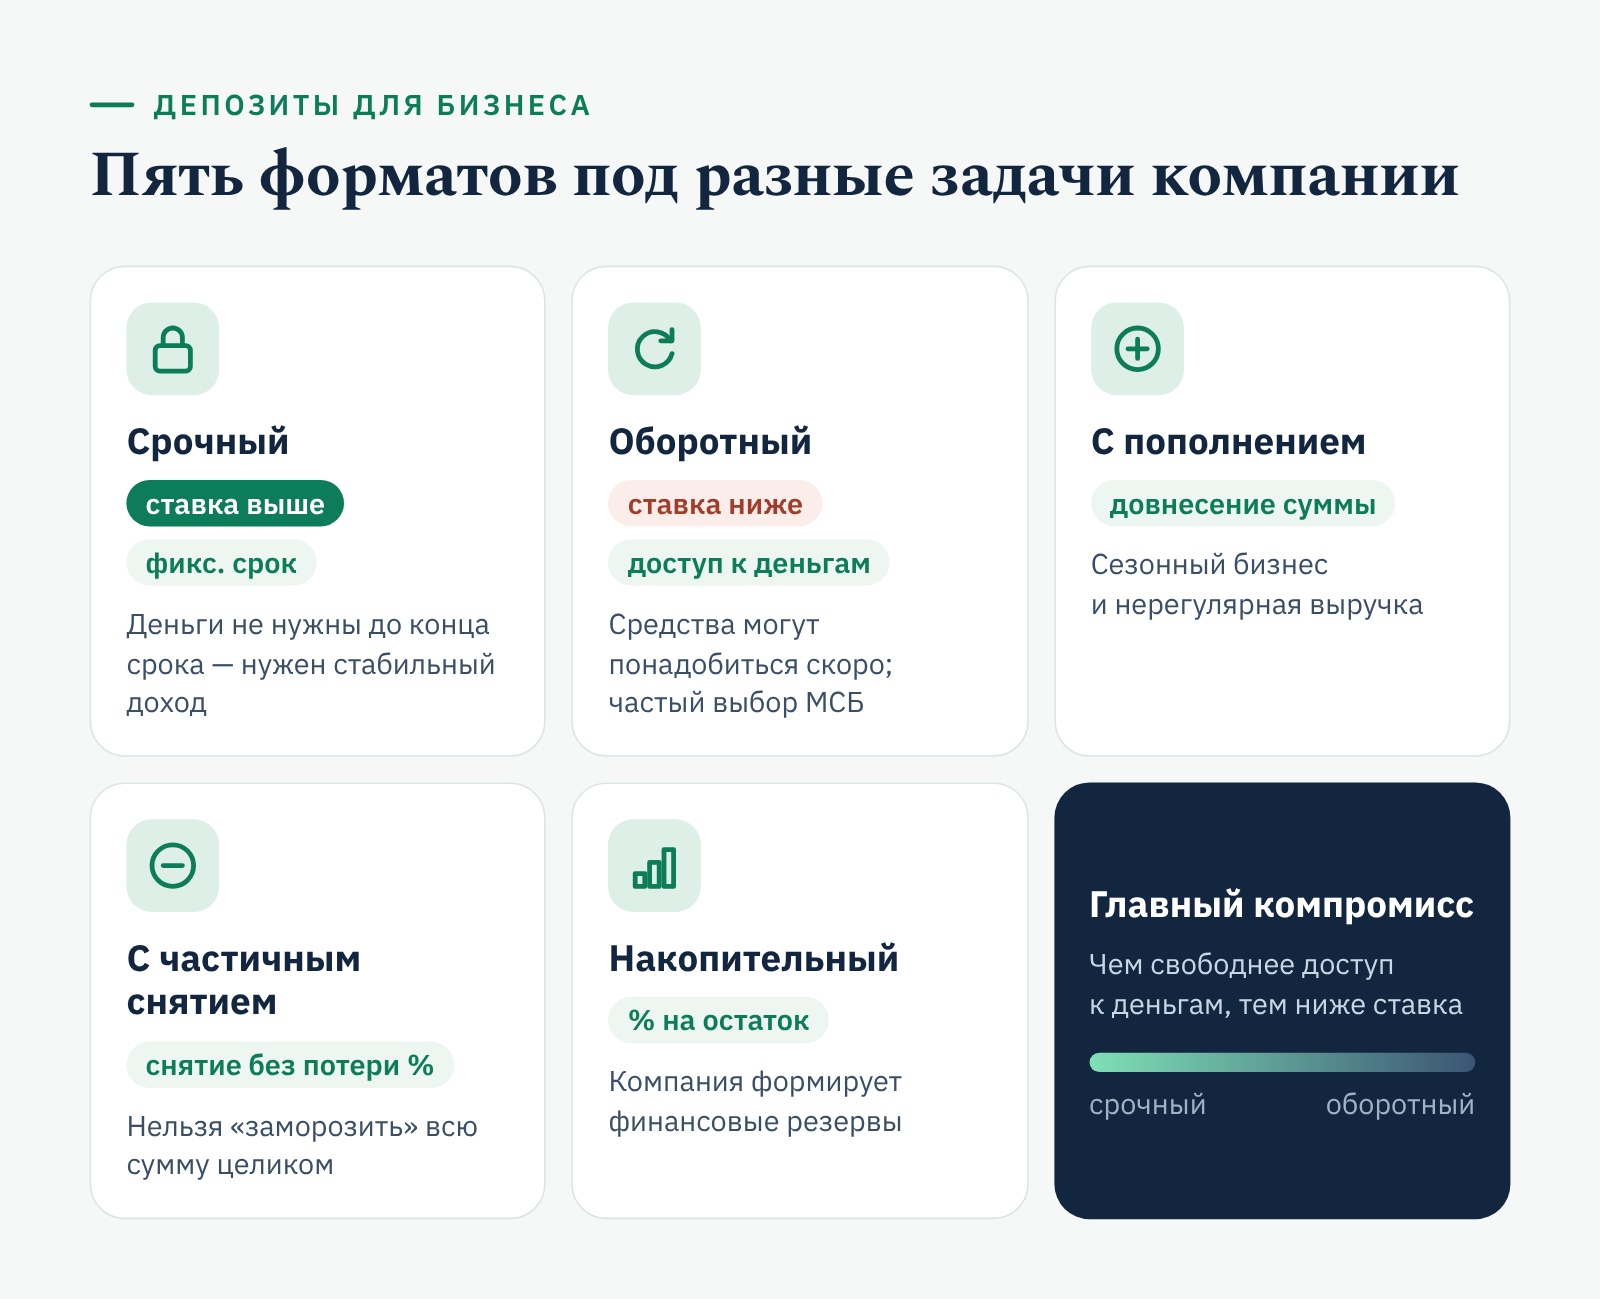
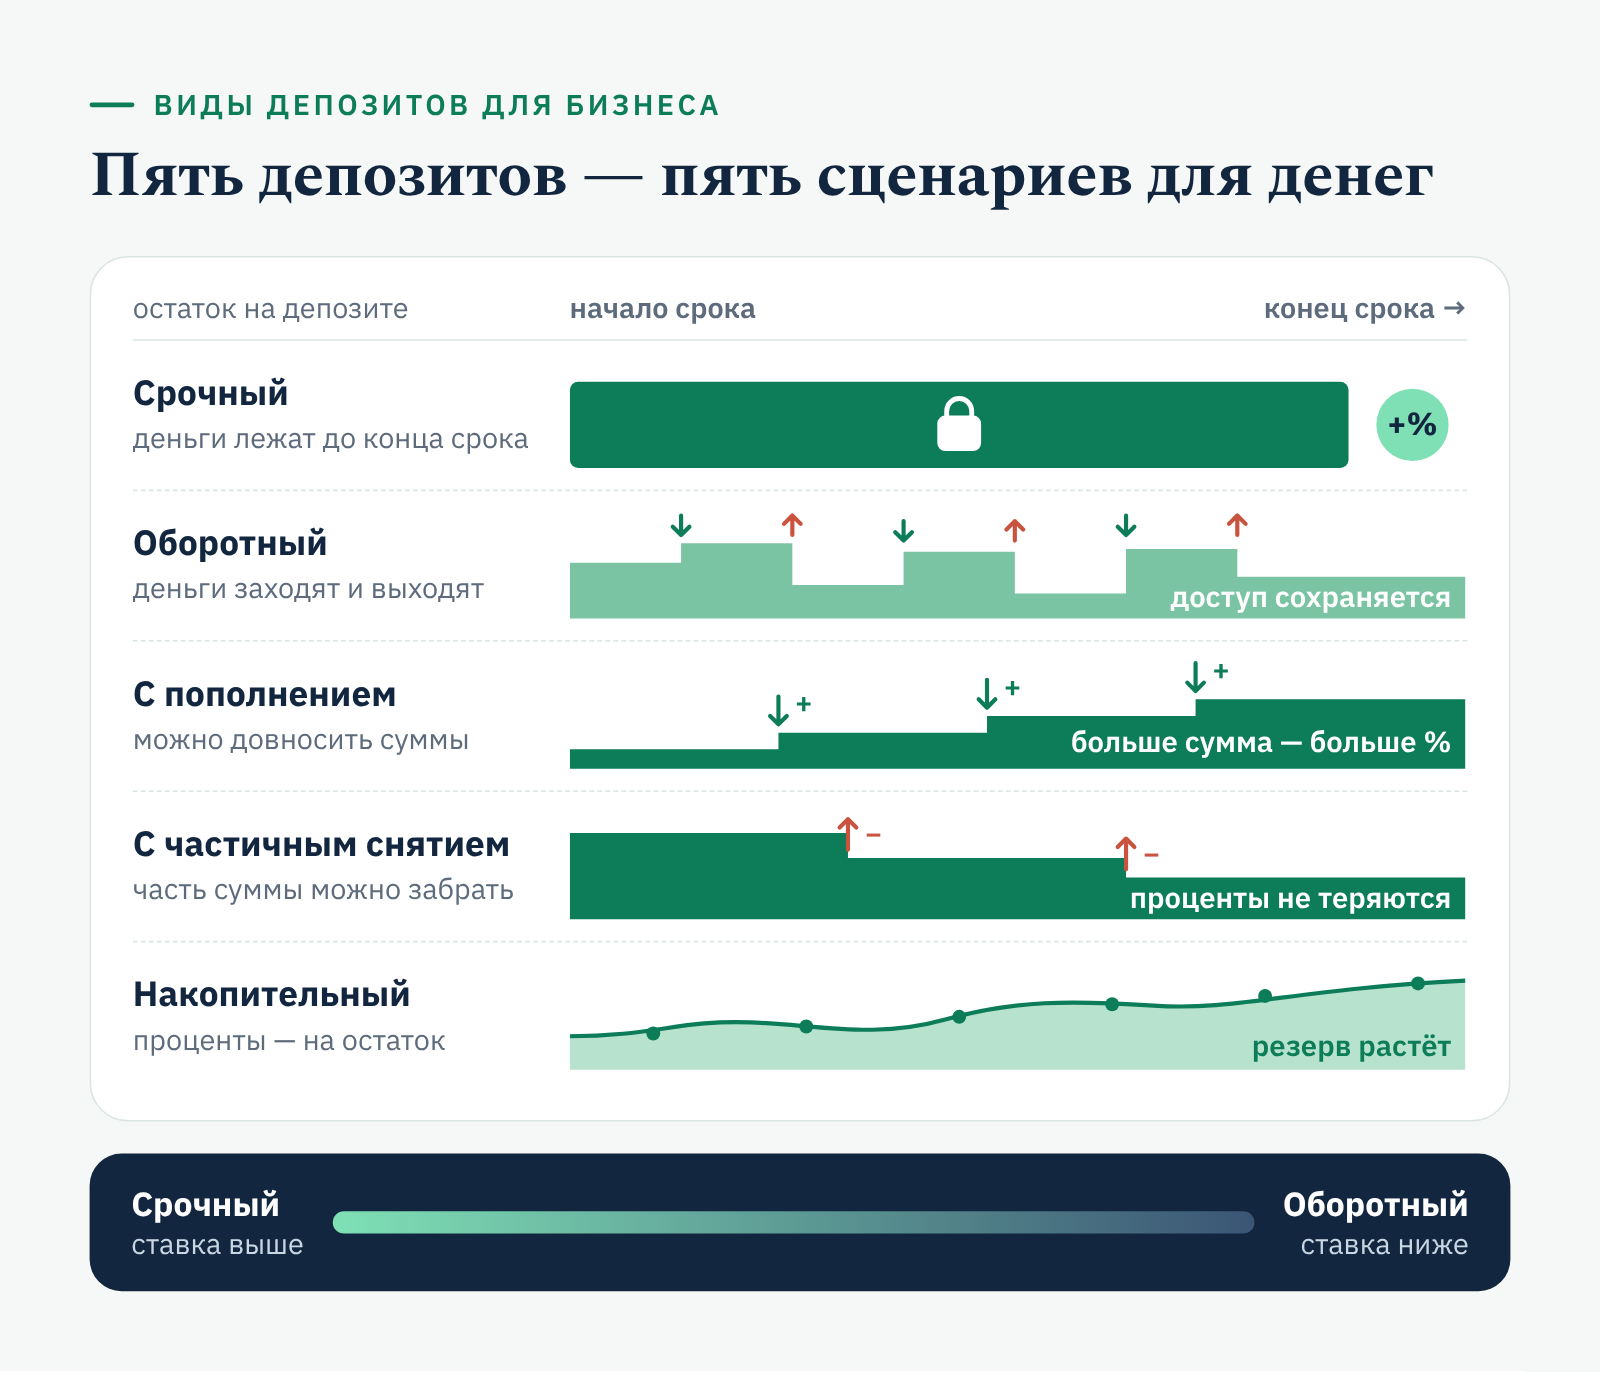
Финуслуги: новая инфографика для депозитов для бизнеса
Claude-Session: https://claude.ai/code/session_019cK9yct1hn6hSG5cVDbxuB

diff --git a/works/finuslugi-3.html b/works/finuslugi-3.html
@@ -177,13 +177,17 @@ h1{font:800 clamp(34px,5.4vw,68px)/1 var(--display);letter-spacing:-.04em;margin
 </ul>
 <p>Каждый вид рассчитан на свою финансовую задачу. Выбор зависит от срока, суммы и того, насколько быстро бизнесу могут понадобиться деньги.</p>
 <figure>
-<img alt="Пять видов депозитов для бизнеса: чем каждый удобен и кому подходит" height="1299" loading="lazy" src="img/finuslugi-3/01.png" width="1600"/>
-<figcaption aria-hidden="true">Пять видов депозитов для бизнеса: чем каждый удобен и кому подходит</figcaption>
+<img alt="Пять видов депозитов для бизнеса: как ведёт себя остаток в течение срока и чем платят за свободный доступ к деньгам" height="1373" loading="lazy" src="img/finuslugi-3/01.png" width="1600"/>
+<figcaption aria-hidden="true">Пять видов депозитов для бизнеса: как ведёт себя остаток в течение срока и чем платят за свободный доступ к деньгам</figcaption>
 </figure>
 <p>Если свободные деньги понадобятся через пару недель, логичнее оборотный депозит. Если компания точно не тронет сумму полгода или год, срочный депозит принесёт больше.</p>
 <h2>Преимущества депозитов для бизнеса</h2>
 <p>Депозит помогает сохранить и приумножить временно свободные средства компании. Главный плюс — предсказуемый доход в виде процентов, который смягчает влияние инфляции и упрощает финансовое планирование.</p>
 <p>Процентный доход можно направить на операционные расходы или на развитие бизнеса. Долгосрочные депозиты обычно дают более высокие ставки и подходят компаниям с устойчивым финансовым положением. Краткосрочные — гибкость и быстрый доступ к деньгам. Банки часто готовы обсуждать индивидуальные условия, включая пополнение и частичное снятие, поэтому депозит можно подстроить под бизнес любого масштаба.</p>
+<figure>
+<img alt="Путь свободных денег компании: с расчётного счёта на депозит, оттуда — проценты, налог и чистый доход для бизнеса" height="1026" loading="lazy" src="img/finuslugi-3/02.png" width="1600"/>
+<figcaption aria-hidden="true">Путь свободных денег компании: с расчётного счёта на депозит, оттуда — проценты, налог и чистый доход для бизнеса</figcaption>
+</figure>
 <p>Деньги, которые просто лежат на расчётном счёте, процентов не приносят и обесцениваются. Для крупных компаний, которые оперируют значительными суммами, разница особенно заметна.</p>
 <h2>Налогообложение депозитов юридических лиц</h2>
 <p>Процентный доход по депозиту облагается налогом всегда, но порядок зависит от системы налогообложения компании.</p>
@@ -193,14 +197,14 @@ h1{font:800 clamp(34px,5.4vw,68px)/1 var(--display);letter-spacing:-.04em;margin
 <h3>Налог на прибыль на ОСНО</h3>
 <p>На общей системе налогообложения проценты по депозиту признаются внереализационным доходом и включаются в базу по налогу на прибыль. <strong>С 1 января 2025 года основная ставка налога на прибыль — 25%</strong> (до этого — 20%).</p>
 <p><strong>Пример.</strong> Организация разместила 10 млн рублей на год под 5% годовых и получила 500 000 рублей дохода. Налог на прибыль составит 125 000 рублей, после уплаты налога останется 375 000 рублей.</p>
-<figure>
-<img alt="Сколько остаётся от 500 000 рублей процентного дохода на ОСНО и на УСН «доходы»" height="1208" loading="lazy" src="img/finuslugi-3/02.png" width="1600"/>
-<figcaption aria-hidden="true">Сколько остаётся от 500 000 рублей процентного дохода на ОСНО и на УСН «доходы»</figcaption>
-</figure>
-<p>Разница между режимами ощутимая: тот же процентный доход на упрощёнке облагается по базовой ставке 6%, а на общей системе — 25%. Поэтому налоговую нагрузку стоит учитывать ещё на этапе выбора депозита.</p>
 <h3>Налог на УСН</h3>
 <p>Компании на упрощённой системе тоже учитывают процентный доход. Ставка зависит от объекта налогообложения: базовая — 6% для объекта «доходы» и 15% для объекта «доходы минус расходы». Проценты по депозиту включаются в состав доходов.</p>
 <p>Если компания на УСН «доходы» получит те же 500 000 рублей процентов, налог составит 30 000 рублей. На УСН «доходы минус расходы» налог рассчитывается с учётом разрешённых расходов.</p>
+<figure>
+<img alt="Расчёт на одном примере: с 500 000 рублей процентов на ОСНО остаётся на 95 000 рублей меньше, чем на УСН «доходы»" height="1134" loading="lazy" src="img/finuslugi-3/03.png" width="1600"/>
+<figcaption aria-hidden="true">Расчёт на одном примере: с 500 000 рублей процентов на ОСНО остаётся на 95 000 рублей меньше, чем на УСН «доходы»</figcaption>
+</figure>
+<p>Разница между режимами ощутимая: тот же процентный доход на упрощёнке облагается по базовой ставке 6%, а на общей системе — 25%. Поэтому налоговую нагрузку стоит учитывать ещё на этапе выбора депозита.</p>
 <h3>Учёт и планирование</h3>
 <p>Банки предоставляют юридическим лицам выписки и справки для корректного налогового учёта. Процентный доход облагается всегда, поэтому размещение депозитов стоит планировать с учётом налоговой нагрузки: при крупной сумме и длинном сроке налог заметно влияет на итоговую доходность.</p>
 <h2>Как выбрать банк для депозита</h2>
@@ -217,8 +221,8 @@ h1{font:800 clamp(34px,5.4vw,68px)/1 var(--display);letter-spacing:-.04em;margin
 </ul>
 <p>Если сопоставить эти критерии, станет понятно, какой банк подходит именно вашему бизнесу. Начните с надёжности и страхования: от них зависит, сохранятся ли деньги компании, если у банка отзовут лицензию.</p>
 <figure>
-<img alt="Какие компании защищены системой страхования вкладов, а какие — нет" height="1182" loading="lazy" src="img/finuslugi-3/03.png" width="1600"/>
-<figcaption aria-hidden="true">Какие компании защищены системой страхования вкладов, а какие — нет</figcaption>
+<img alt="Страховка АСВ покрывает депозит ИП и компаний из реестра МСП только в пределах 1,4 млн рублей, крупный бизнес она не защищает" height="1050" loading="lazy" src="img/finuslugi-3/04.png" width="1600"/>
+<figcaption aria-hidden="true">Страховка АСВ покрывает депозит ИП и компаний из реестра МСП только в пределах 1,4 млн рублей, крупный бизнес она не защищает</figcaption>
 </figure>
 <p>Правильно выбранный банк и подходящий вид депозита превращают свободные деньги компании в дополнительный источник дохода — без лишних рисков для оборотных средств.</p>
 
